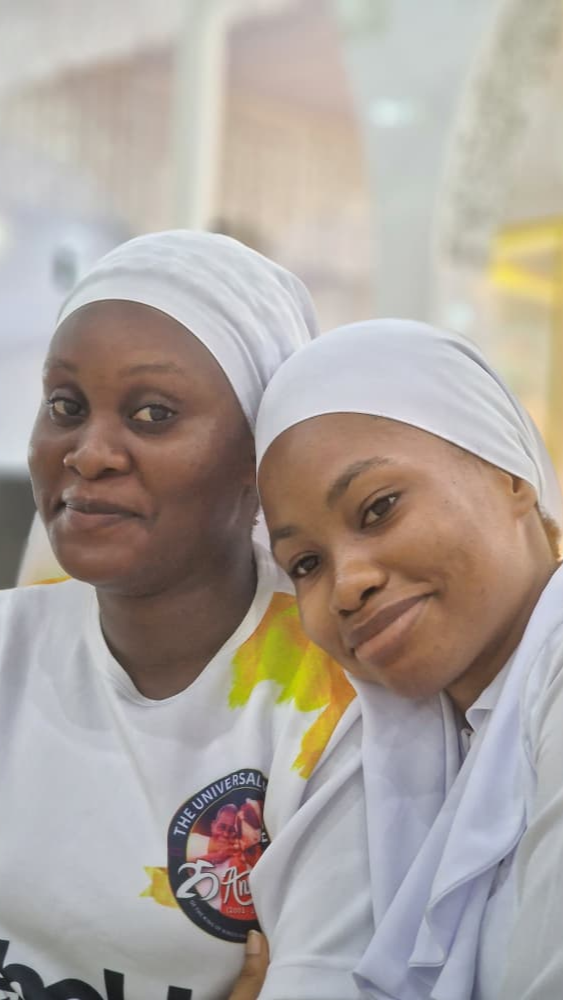
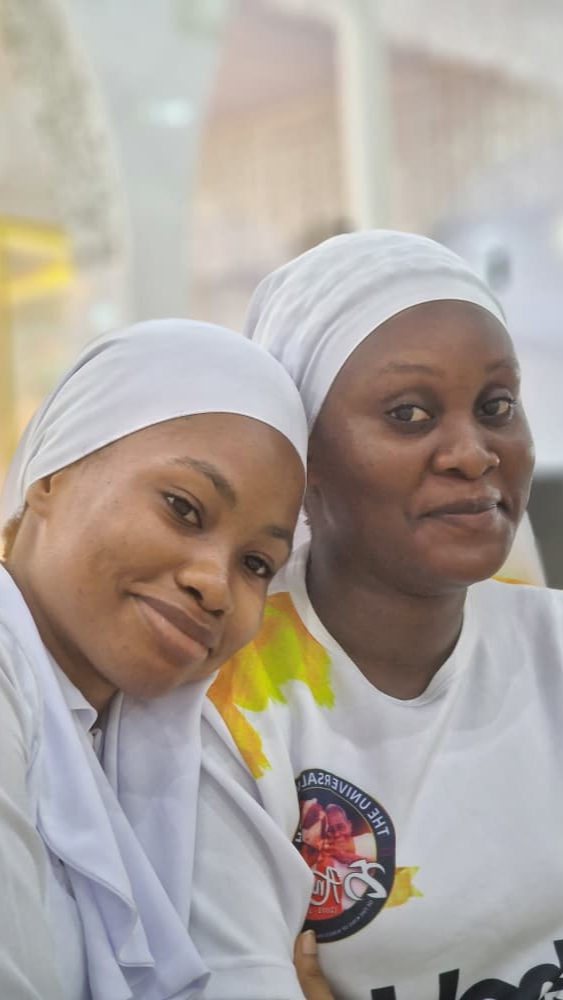
Sync virgin image lists with latest portrait and landscape assets.
Add 7.jpg, remove deleted three.jpg, and include new landscape image in the arrays.

diff --git a/app/page.tsx b/app/page.tsx
@@ -77,6 +77,7 @@ const PORTRAIT_IMAGES = [
   "/virgins/portrait/4.jpg",
   "/virgins/portrait/5.jpg",
   "/virgins/portrait/6.jpg",
+  "/virgins/portrait/7.jpg",
   "/virgins/portrait/IMG-20220820-WA0032.jpg",
   "/virgins/portrait/IMG-20220820-WA0034.jpg",
   "/virgins/portrait/IMG_1333.jpeg",
@@ -121,7 +122,6 @@ const PORTRAIT_IMAGES = [
   "/virgins/portrait/photo_2026-05-22_20-54-12.jpg",
   "/virgins/portrait/photo_2026-05-22_20-54-15.jpg",
   "/virgins/portrait/photo_2026-05-22_20-54-17.jpg",
-  "/virgins/portrait/three.jpg",
   "/virgins/portrait/two.jpg",
 ];
 
@@ -154,6 +154,7 @@ const LANDSCAPE_IMAGES = [
   "/virgins/landscape/image_2026-05-22_20-10-02.png",
   "/virgins/landscape/image_2026-05-22_20-10-36.png",
   "/virgins/landscape/image_2026-05-22_20-14-25.png",
+  "/virgins/landscape/image_2026-05-23_15-10-49.png",
   "/virgins/landscape/photo_2026-05-22_17-45-15.jpg",
   "/virgins/landscape/photo_2026-05-22_17-46-06.jpg",
   "/virgins/landscape/photo_2026-05-22_17-46-12.jpg",
@@ -184,6 +185,7 @@ const FIXED_PORTRAIT = [
   "/virgins/portrait/4.jpg",
   "/virgins/portrait/5.jpg",
   "/virgins/portrait/6.jpg",
+  "/virgins/portrait/7.jpg",
 ];
 
 const FIXED_LANDSCAPE = [
